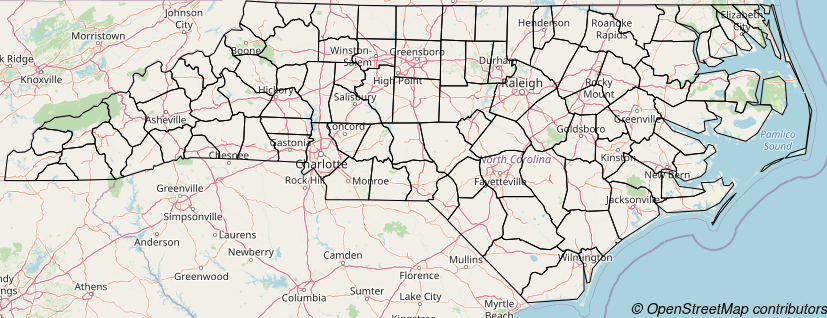
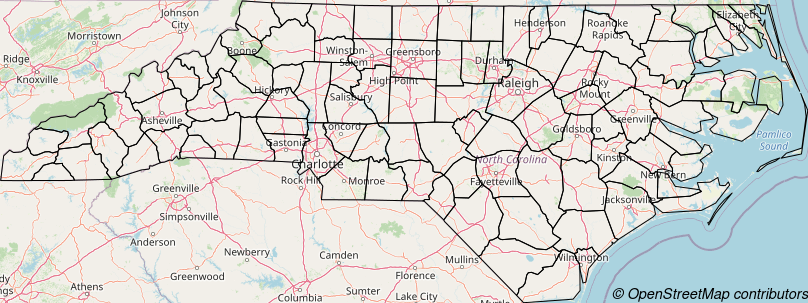
docs: update README

diff --git a/README.md b/README.md
@@ -67,7 +67,7 @@ mtext(text = get_credit("OpenStreetMap"),
 
 <!-- ![](man/figures/README-example-1.png){width=852px} -->
 
-<img src="man/figures/README-example-1.png" width="827" height="318"/>
+<img src="man/figures/README-example-1.png" width="808" height="303"/>
 
 `maptiles` gives access to a lot of tiles servers, but it is possible to
 add others. The following example demonstrates the setting of a map
@@ -82,14 +82,14 @@ osmpos <- list(src = 'CARTO.POSITRON',
 # dowload tiles and compose raster (SpatRaster)
 nc_osmpos <- get_tiles(x = nc, provider = osmpos, crop = TRUE, 
                        cachedir = tempdir(), verbose = TRUE)
-#> https://b.basemaps.cartocdn.com/light_all/7/34/50.png => /tmp/RtmpFGXOix/CARTO.POSITRON/CARTO.POSITRON_7_34_50.png
-#> https://d.basemaps.cartocdn.com/light_all/7/35/50.png => /tmp/RtmpFGXOix/CARTO.POSITRON/CARTO.POSITRON_7_35_50.png
-#> https://b.basemaps.cartocdn.com/light_all/7/36/50.png => /tmp/RtmpFGXOix/CARTO.POSITRON/CARTO.POSITRON_7_36_50.png
-#> https://a.basemaps.cartocdn.com/light_all/7/37/50.png => /tmp/RtmpFGXOix/CARTO.POSITRON/CARTO.POSITRON_7_37_50.png
-#> https://d.basemaps.cartocdn.com/light_all/7/34/51.png => /tmp/RtmpFGXOix/CARTO.POSITRON/CARTO.POSITRON_7_34_51.png
-#> https://d.basemaps.cartocdn.com/light_all/7/35/51.png => /tmp/RtmpFGXOix/CARTO.POSITRON/CARTO.POSITRON_7_35_51.png
-#> https://b.basemaps.cartocdn.com/light_all/7/36/51.png => /tmp/RtmpFGXOix/CARTO.POSITRON/CARTO.POSITRON_7_36_51.png
-#> https://a.basemaps.cartocdn.com/light_all/7/37/51.png => /tmp/RtmpFGXOix/CARTO.POSITRON/CARTO.POSITRON_7_37_51.png
+#> https://d.basemaps.cartocdn.com/light_all/7/34/50.png => /tmp/RtmpcQkElZ/CARTO.POSITRON/CARTO.POSITRON_7_34_50.png
+#> https://d.basemaps.cartocdn.com/light_all/7/35/50.png => /tmp/RtmpcQkElZ/CARTO.POSITRON/CARTO.POSITRON_7_35_50.png
+#> https://b.basemaps.cartocdn.com/light_all/7/36/50.png => /tmp/RtmpcQkElZ/CARTO.POSITRON/CARTO.POSITRON_7_36_50.png
+#> https://c.basemaps.cartocdn.com/light_all/7/37/50.png => /tmp/RtmpcQkElZ/CARTO.POSITRON/CARTO.POSITRON_7_37_50.png
+#> https://a.basemaps.cartocdn.com/light_all/7/34/51.png => /tmp/RtmpcQkElZ/CARTO.POSITRON/CARTO.POSITRON_7_34_51.png
+#> https://d.basemaps.cartocdn.com/light_all/7/35/51.png => /tmp/RtmpcQkElZ/CARTO.POSITRON/CARTO.POSITRON_7_35_51.png
+#> https://c.basemaps.cartocdn.com/light_all/7/36/51.png => /tmp/RtmpcQkElZ/CARTO.POSITRON/CARTO.POSITRON_7_36_51.png
+#> https://a.basemaps.cartocdn.com/light_all/7/37/51.png => /tmp/RtmpcQkElZ/CARTO.POSITRON/CARTO.POSITRON_7_37_51.png
 #> Zoom:7
 #> Data and map tiles sources:
 #> © OpenStreetMap contributors © CARTO.
@@ -102,7 +102,7 @@ mtext(text = osmpos$cit, side = 1, line = -1,
 
 <!-- ![](man/figures/README-example2-1.png){width=852px}    -->
 
-<img src="man/figures/README-example2-1.png" width="827" height="318"/>
+<img src="man/figures/README-example2-1.png" width="808" height="303"/>
 
 The following figure shows mini maps for most of the tiles providers
 available:
